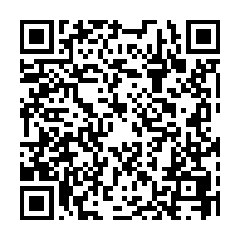
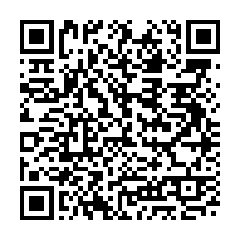
bone bight

Changed region(s): [[0.0583, 0.0583, 0.9333, 0.9333]]

diff --git a/donate.html b/donate.html
@@ -36,7 +36,7 @@
 <h3><img style="max-height:1.2em; max-width:1.2em;" src="pictures/xmr.svg"> Monero (XMR)</h3>
 <figure style="float:center;">
 <img src="pictures/xmr.png" style="max-width:145px;max-height:145px;"></img>
-<figcaption style="display:block;font-style:normal;padding:2px;text-align:center;"><code>86tZtCExmr9XSgBr5cpLN2hDhKveiuqUFizZjwdimyGWATDmeDr4jM9aH2uRHWWa3v9yjxQGT48BuRP4riQAyddULa1xLQQ</code></figcaption>
+<figcaption style="display:block;font-style:normal;padding:2px;text-align:center;"><code>45kBfCZz2Gw2LZS8vg352b8CL2LC5JY2TFh1aA1bcXSDi3tqfKczdVw7Q7fN6r2AEQFDxC1xCezyHYeHghVLrDQx7nCYE9q</code></figcaption>
 </figure>
 </div>
 

diff --git a/index.html b/index.html
@@ -67,7 +67,7 @@
 
 <ul>
     <li><img style="max-height:1em; max-width:1em;" src="pictures/btc.svg"> Bitcoin: <code>bc1q320f69t8xc6536f2lal78p04ztcqa7y09ctlnq</code></li>
-    <li><img style="max-height:1em; max-width:1em;" src="pictures/xmr.svg"> Monero: <code style="font-size:small;">86tZtCExmr9XSgBr5cpLN2hDhKveiuqUFizZjwdimyGWATDmeDr4jM9aH2uRHWWa3v9yjxQGT48BuRP4riQAyddULa1xLQQ</code></li>
+    <li><img style="max-height:1em; max-width:1em;" src="pictures/xmr.svg"> Monero: <code style="font-size:small;">45kBfCZz2Gw2LZS8vg352b8CL2LC5JY2TFh1aA1bcXSDi3tqfKczdVw7Q7fN6r2AEQFDxC1xCezyHYeHghVLrDQx7nCYE9q</code></li>
 </ul>
 
 </main>
